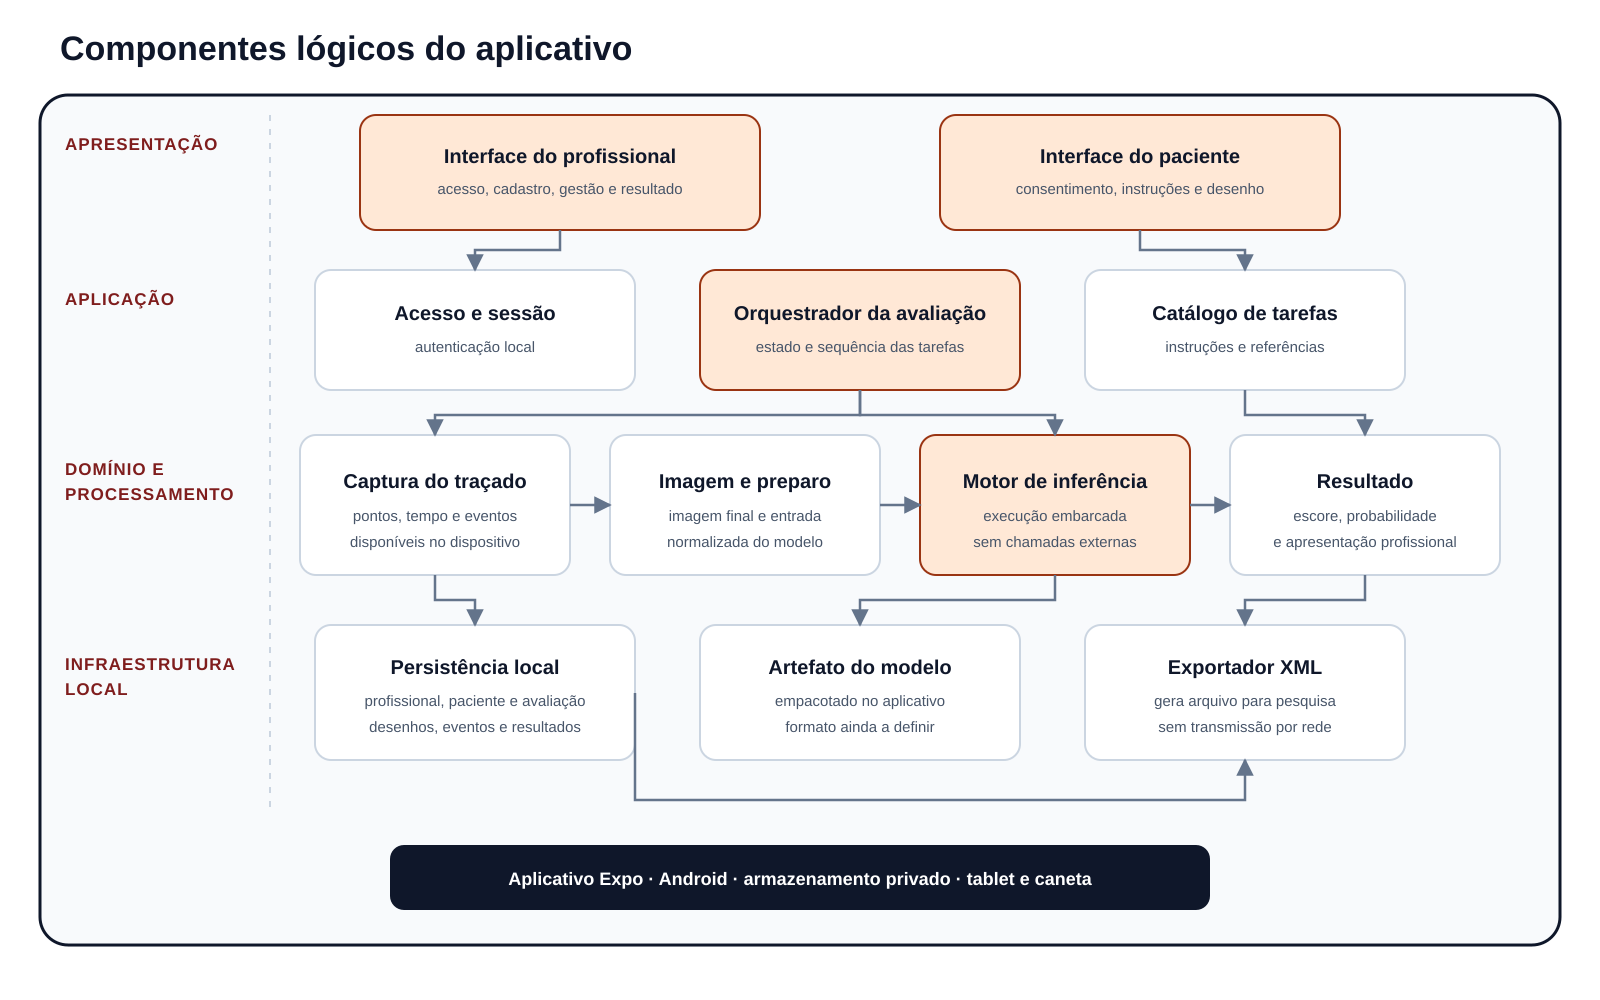
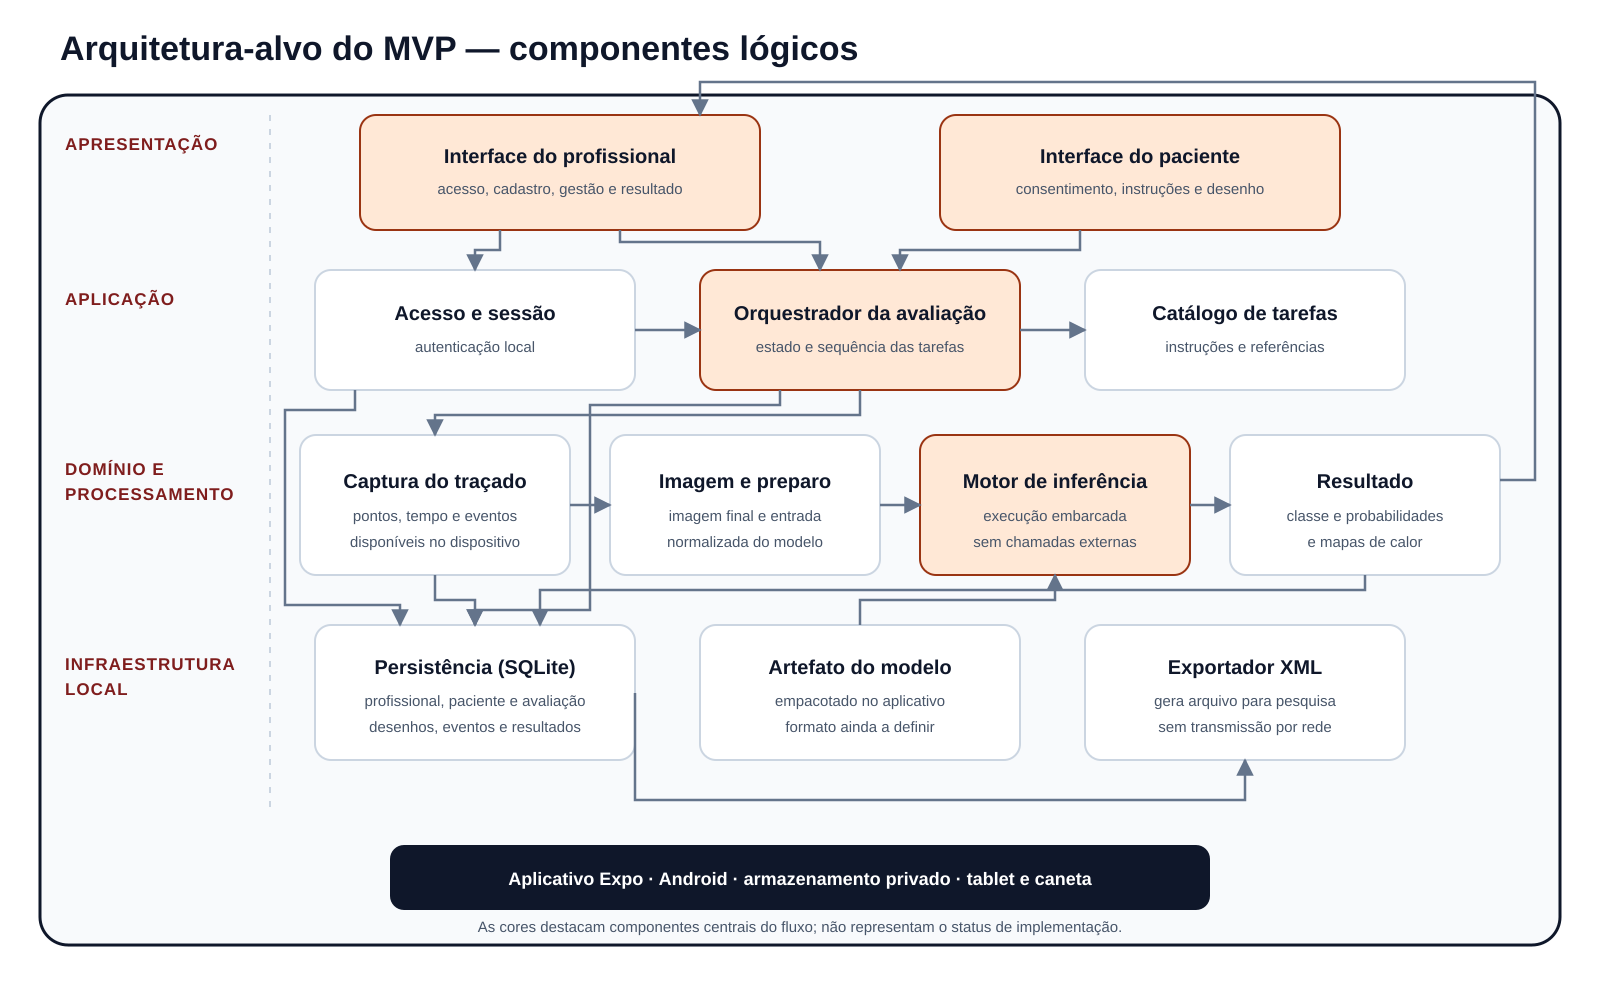
feat: atualizando grafico de arquitetura

diff --git a/docs/produto/arquitetura.md b/docs/produto/arquitetura.md
@@ -86,7 +86,7 @@ A visão lógica mostra como o aplicativo está dividido em componentes e quais 
 
 **Figura 2:** Diagrama de componentes do aplicativo
 
-![Diagrama de componentes organizados nas camadas de apresentação, aplicação, domínio e processamento e infraestrutura local](../assets/imagens/arquitetura/componentes-med.svg)
+![Arquitetura-alvo do MVP organizada em componentes lógicos](../assets/imagens/arquitetura/componentes-med-v2.svg)
 
 **Fonte:** [Daniel Ferreira Nunes](https://github.com/Mach1r0), 2026.
 
